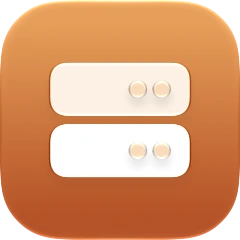
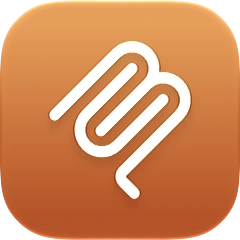
fix(settings): toolbar beside the sidebar, fade under it, one list-art size, MCP mark
The pane toolbar starts at the pane's edge beside the sidebar (System Settings); back / forward shows on drilled pages only.
The page fades in under the toolbar instead of being cut (PageScroll fadeTop).
App icons, integration images and glyph tiles in rows share the pane icons' list-art size (LIST_ART_PX).
MCP Servers' icon is the Model Context Protocol mark.

Changed region(s): [[0.175, 0.1458, 0.8167, 0.8458]]

diff --git a/src/features/settings/components/shared/SettingsPage.tsx b/src/features/settings/components/shared/SettingsPage.tsx
@@ -11,8 +11,8 @@ interface SettingsToolbarProps {
   title: React.ReactNode;
   /** Controls at the right of the title (Add, time range…). */
   accessory?: React.ReactNode;
-  /** A drilled-in page (Mac, iPad): ‹ in the back / forward capsule, which leads every page's title (dimmed where there is
-   *  nowhere to go, as in System Settings) so titles start at one place. A phone's bar has its own. */
+  /** A drilled-in page (Mac, iPad): the back / forward capsule before the title returns to the page it came from. A phone's
+   *  bar has its own. */
   onBack?: () => void;
   /** Goes forward again to the page last left with back (System Settings). */
   onForward?: () => void;
@@ -20,14 +20,14 @@ interface SettingsToolbarProps {
 
 const { paneToolbar } = LAYOUT;
 
-/** A pane's toolbar (macOS System Settings): back / forward, the pane's title, its controls. On a Mac it sits in the titlebar,
- *  centred on the traffic lights, and stays put while the page scrolls; its empty space still drags the window. */
+/** A pane's toolbar (macOS System Settings): back / forward, the pane's title, its controls, across the pane from its leading
+ *  edge beside the sidebar (not the centred column). On a Mac it sits in the titlebar, centred on the traffic lights, and stays
+ *  put while the page scrolls; its empty space still drags the window. */
 const SettingsToolbar: React.FC<SettingsToolbarProps> = ({ title, accessory, onBack, onForward }) => {
   const clearFloating = useFloatingSidebarControls();
   return (
     <header
       className={cn(
-        LAYOUT.settingsColumn,
         paneToolbar.base,
         'pointer-events-none flex shrink-0 items-center justify-between gap-4',
         platform.hasWindowChrome ? paneToolbar.titlebar : paneToolbar.plain,
@@ -35,9 +35,11 @@ const SettingsToolbar: React.FC<SettingsToolbarProps> = ({ title, accessory, onB
       )}
     >
       <div className="flex min-w-0 items-center gap-3">
-        <div className="pointer-events-auto">
-          <BackForward onBack={onBack} onForward={onForward} />
-        </div>
+        {(onBack || onForward) && (
+          <div className="pointer-events-auto">
+            <BackForward onBack={onBack} onForward={onForward} />
+          </div>
+        )}
         <Text as="h1" variant="title" truncate>{title}</Text>
       </div>
       {accessory && <div className="pointer-events-auto flex shrink-0 items-center gap-1">{accessory}</div>}
@@ -82,7 +84,7 @@ const DesktopPage: React.FC<SettingsPageProps> = ({ pane, title, children, ...to
     <div className={cn(LAYOUT.pageGutter, LAYOUT.pageColumnFrame)}>
       <SettingsToolbar title={title ?? paneItem(pane)?.label} {...toolbar} />
     </div>
-    <PageScroll steady underTitlebar={false} className={`min-h-0 flex-1 ${LAYOUT.pageGutter} ${paneToolbar.below} pb-6`}>
+    <PageScroll steady underTitlebar={false} fadeTop className={`min-h-0 flex-1 ${LAYOUT.pageGutter} pb-6`}>
       <div className={`${LAYOUT.settingsColumn} space-y-section`}>
         <Hero pane={pane} />
         {children}

diff --git a/src/shared/ui/page-scroll.tsx b/src/shared/ui/page-scroll.tsx
@@ -26,6 +26,9 @@ export function TitlebarSpacer() {
 export interface PageScrollProps extends HTMLAttributes<HTMLDivElement> {
   /** Runs to the window top: content starts below the titlebar and fades out under it when scrolled. */
   underTitlebar?: boolean;
+  /** Below a fixed header instead of the titlebar: content fades out at the top edge as it scrolls under the header; at rest
+   *  it starts below the fade. */
+  fadeTop?: boolean;
   /** Content fades out at the bottom edge too (into a composer below). Scrolled to the end, the last content rests above the fade. */
   fadeBottom?: boolean;
   /** The scrollbar keeps its room even when the page fits, so a centred column sits in the same place on every page. */
@@ -34,8 +37,9 @@ export interface PageScrollProps extends HTMLAttributes<HTMLDivElement> {
 
 /** A view's vertical page scroller with edge fades; callers add layout and padding. Use `ScrollArea` for insets. */
 export const PageScroll = forwardRef<HTMLDivElement, PageScrollProps>(
-  ({ underTitlebar = true, fadeBottom = false, steady = false, className, style, children, ...props }, ref) => {
-    const fade = edgeFade({ top: underTitlebar ? safeArea : 0, bottom: fadeBottom ? edgeFadePx : 0 });
+  ({ underTitlebar = true, fadeTop = false, fadeBottom = false, steady = false, className, style, children, ...props }, ref) => {
+    const top = underTitlebar ? safeArea : fadeTop ? edgeFadePx : 0;
+    const fade = edgeFade({ top, bottom: fadeBottom ? edgeFadePx : 0 });
     return (
       <div
         ref={ref}
@@ -44,6 +48,7 @@ export const PageScroll = forwardRef<HTMLDivElement, PageScrollProps>(
         {...props}
       >
         {underTitlebar && <TitlebarSpacer />}
+        {!underTitlebar && fadeTop && <Band height={edgeFadePx} />}
         {children}
         {fadeBottom && <Band height={edgeFadePx} />}
       </div>

diff --git a/src/shared/components/AppIcon.tsx b/src/shared/components/AppIcon.tsx
@@ -6,7 +6,7 @@ import { useQuery } from '@tanstack/react-query';
 import { invoke } from '@tauri-apps/api/core';
 import { isTauriEnvironment } from '@services/tauri';
 import { queryKeys } from '@shared/query/queryKeys';
-import { Icon, IconTile, ICON_SIZE_PX, ICON_TILE_PX, type IconSize } from '@shared/ui';
+import { Icon, IconTile, ICON_SIZE_PX, LIST_ART_PX, type IconSize } from '@shared/ui';
 import { platform } from '@platform/index';
 import { UI_CONFIG } from '@config/ui.config';
 
@@ -32,14 +32,14 @@ export function useAppIcon(app: string | undefined): string | null {
   return data ?? null;
 }
 
-/** A kit icon size, or `tile`: a settings row, where the icon's visible body matches an icon tile. */
+/** A kit icon size, or `tile`: a settings row, where the icon's visible body is list-art size (like the Settings pane icons). */
 type AppIconSize = IconSize | 'tile';
 
-/** macOS draws an app icon's body inside padding, so at tile size the image is scaled up and overflows its tile-sized box evenly. */
-const TILE_IMAGE_PX = Math.round(ICON_TILE_PX / UI_CONFIG.appIconBody);
+/** macOS draws an app icon's body inside padding, so at tile size the image is scaled up and overflows its list-art box evenly. */
+const TILE_IMAGE_PX = Math.round(LIST_ART_PX / UI_CONFIG.appIconBody);
 
 const TileImage: React.FC<{ src?: string | null }> = ({ src }) => (
-  <span aria-hidden className="inline-flex shrink-0 items-center justify-center" style={{ width: ICON_TILE_PX, height: ICON_TILE_PX }}>
+  <span aria-hidden className="inline-flex shrink-0 items-center justify-center" style={{ width: LIST_ART_PX, height: LIST_ART_PX }}>
     {src && <img src={src} alt="" width={TILE_IMAGE_PX} height={TILE_IMAGE_PX} className="max-w-none shrink-0" />}
   </span>
 );

diff --git a/src/shared/components/GlyphTile.tsx b/src/shared/components/GlyphTile.tsx
@@ -1,11 +1,11 @@
-/** A bare glyph image on a raised white tile: app-icon size on choice cards, icon-tile size in settings rows. */
+/** A bare glyph image on a raised white tile: app-icon size on choice cards, list-art size in settings rows. */
 
 import React from 'react';
-import { ICON_SIZE_PX, ICON_TILE_PX, ICON_TILE_RADIUS, Surface } from '@shared/ui';
+import { ICON_SIZE_PX, LIST_ART_PX, LIST_ART_RADIUS, Surface } from '@shared/ui';
 import { UI_CONFIG } from '@config/ui.config';
 
 const CHOICE = UI_CONFIG.glyphTile;
-const ROW = { tile: ICON_TILE_PX, glyph: ICON_SIZE_PX.xs };
+const ROW = { tile: LIST_ART_PX, glyph: ICON_SIZE_PX.xs };
 
 export const GlyphTile: React.FC<{ src: string; size?: 'choice' | 'row' }> = ({ src, size = 'choice' }) => {
   const { tile, glyph } = size === 'row' ? ROW : CHOICE;
@@ -15,7 +15,7 @@ export const GlyphTile: React.FC<{ src: string; size?: 'choice' | 'row' }> = ({ 
       radius={size === 'row' ? 'none' : 'lg'}
       edge="all"
       className="flex shrink-0 items-center justify-center"
-      style={{ width: tile, height: tile, ...(size === 'row' && { borderRadius: ICON_TILE_RADIUS }) }}
+      style={{ width: tile, height: tile, ...(size === 'row' && { borderRadius: LIST_ART_RADIUS }) }}
     >
       <img src={src} alt="" aria-hidden width={glyph} height={glyph} />
     </Surface>

diff --git a/src/shared/ui/icon-tile.tsx b/src/shared/ui/icon-tile.tsx
@@ -5,13 +5,13 @@ import { ICON_SIZE_PX, ICON_STROKE_WIDTH } from './icon';
 
 /** List icons (Settings rows, capabilities, usage): one icon step on every device, so a logo beside them (providers, models) matches. */
 const LIST_ICON_PX = ICON_SIZE_PX.sm;
-/** An icon image in a list row: Apple's size, larger than a glyph. */
-const LIST_ART_PX = platform.hasTouchScreen ? UI_CONFIG.listArt.touch : UI_CONFIG.listArt.desktop;
+/** App-icon-shaped art in a list row (Settings panes, Mac apps, integrations): Apple's size, larger than a glyph. */
+export const LIST_ART_PX = platform.hasTouchScreen ? UI_CONFIG.listArt.touch : UI_CONFIG.listArt.desktop;
+/** Corner radius in px for square art at list-art size that isn't already shaped (brand squares, glyph tiles). */
+export const LIST_ART_RADIUS = Math.round(LIST_ART_PX * 0.22);
 
 /** A list icon's edge in px on this device, so logos beside list icons (providers, models) match them. */
 export const ICON_TILE_PX = LIST_ICON_PX;
-/** Corner radius in px for images shown in a list icon's slot (app icons, logos). */
-export const ICON_TILE_RADIUS = Math.round(LIST_ICON_PX * 0.22);
 
 /** A line glyph (Lucide) or a Simple Icons brand mark, in currentColor. */
 export type TileGlyph = React.ComponentType<{ size?: number | string; strokeWidth?: number | string; title?: string }>;

diff --git a/src/features/integrations/components/IntegrationIcon.tsx b/src/features/integrations/components/IntegrationIcon.tsx
@@ -1,6 +1,6 @@
 import React from 'react';
 import type { LucideIcon } from 'lucide-react';
-import { ICON_TILE_PX, ICON_TILE_RADIUS } from '@shared/ui';
+import { LIST_ART_PX, LIST_ART_RADIUS } from '@shared/ui';
 import { AppIcon, GlyphTile } from '@shared/components';
 
 interface IntegrationIconProps {
@@ -14,12 +14,12 @@ interface IntegrationIconProps {
   symbol?: LucideIcon;
 }
 
-/** An integration's icon at icon-tile size, so app icons, images and glyphs weigh the same as the tiles in other panels. */
+/** An integration's icon at list-art size, so app icons, images and glyphs match the Settings sidebar's pane icons. */
 export const IntegrationIcon: React.FC<IntegrationIconProps> = ({ app, src, glyph, symbol }) => {
   if (app) return <AppIcon app={app} size="tile" fallback={src} symbol={symbol} />;
   if (glyph) return <GlyphTile src={glyph} size="row" />;
   return (
-    <span className="shrink-0 overflow-hidden" style={{ width: ICON_TILE_PX, height: ICON_TILE_PX, borderRadius: ICON_TILE_RADIUS }}>
+    <span className="shrink-0 overflow-hidden" style={{ width: LIST_ART_PX, height: LIST_ART_PX, borderRadius: LIST_ART_RADIUS }}>
       <img src={src} alt="" className="w-full h-full" />
     </span>
   );

diff --git a/src/config/layout.config.ts b/src/config/layout.config.ts
@@ -17,8 +17,8 @@ export const LAYOUT = {
   collapsedControlsFlush: 'left-3',
 
   /** A pane's toolbar in the macOS titlebar: 28px controls centred on the traffic lights (y≈29: 15px + 28px/2), like the
-   *  sidebar header, with room beneath before the page (`below`); `clearFloating` starts it after the sidebar's floating buttons (left-[88px] + two 32px buttons + gap). */
-  paneToolbar: { base: 'relative z-30', titlebar: 'pt-[15px] pb-3 h-[55px]', plain: 'pt-6 pb-3', clearFloating: 'pl-[136px]', below: 'pt-8' },
+   *  sidebar header, the page below fades in under it (PageScroll `fadeTop`); `clearFloating` starts it after the sidebar's floating buttons (left-[88px] + two 32px buttons + gap). */
+  paneToolbar: { base: 'relative z-30', titlebar: 'pt-[15px] pb-3 h-[55px]', plain: 'pt-6 pb-3', clearFloating: 'pl-[136px]' },
 
   /** Proposal cards above the chat box: past a few rows the list scrolls inside the card. */
   proposalList: 'max-h-64 overflow-y-auto',

diff --git a/src/shared/ui/index.ts b/src/shared/ui/index.ts
@@ -17,7 +17,7 @@ export { Spinner } from './spinner';
 export { RociMark } from './roci-mark';
 export { AppMark } from './app-mark';
 export type { IconProps, IconSize } from './icon';
-export { IconTile, ICON_TILE_PX, ICON_TILE_RADIUS } from './icon-tile';
+export { IconTile, ICON_TILE_PX, LIST_ART_PX, LIST_ART_RADIUS } from './icon-tile';
 export { PaneHero } from './pane-hero';
 export type { PaneHeroProps } from './pane-hero';
 export { Chart } from './chart';
